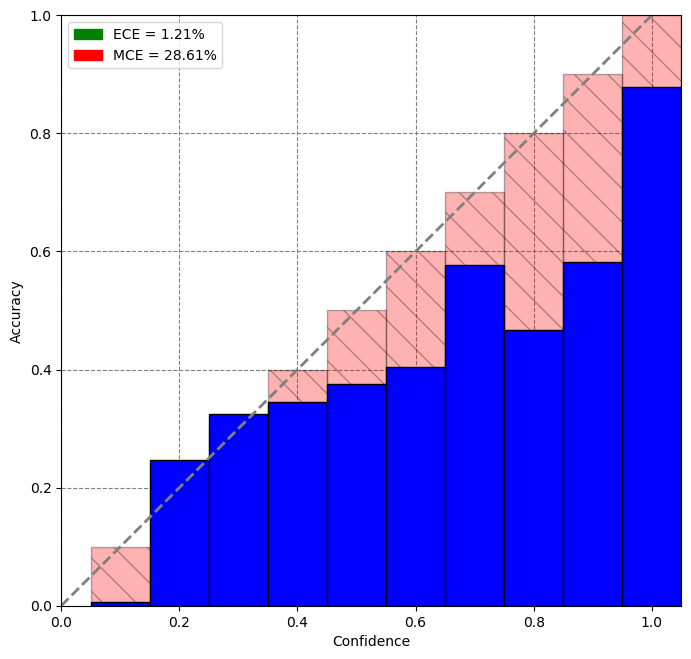
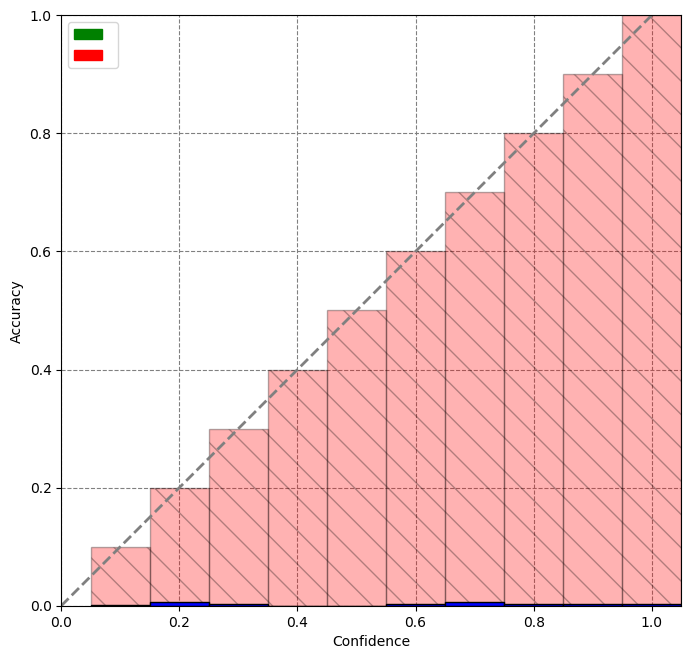
graficas

diff --git a/codigo/CIFAR10/ensembleResnet18.py b/codigo/CIFAR10/ensembleResnet18.py
@@ -145,7 +145,7 @@ def calc_bins(logits, labels, batch_size=100):
     preds = []
     labels_oneh = []
     for logit, label in zip(list_preds, list_labels):
-        pred = sm(logit)
+        pred = logit
         pred = pred.cpu().detach().numpy()
         label_oneh = torch.nn.functional.one_hot(label, num_classes=10)
         label_oneh = label_oneh.cpu().detach().numpy()
@@ -214,8 +214,8 @@ def draw_reliability_graph(preds, labels, file):
     plt.gca().set_aspect('equal', adjustable='box')
 
     # ECE and MCE legend
-    ECE_patch = mpatches.Patch(color='green', label='ECE = {:.2f}%'.format(ECE*100))
-    MCE_patch = mpatches.Patch(color='red', label='MCE = {:.2f}%'.format(MCE*100))
+    ECE_patch = mpatches.Patch(color='green')
+    MCE_patch = mpatches.Patch(color='red')
     plt.legend(handles=[ECE_patch, MCE_patch])
 
     #plt.show()
